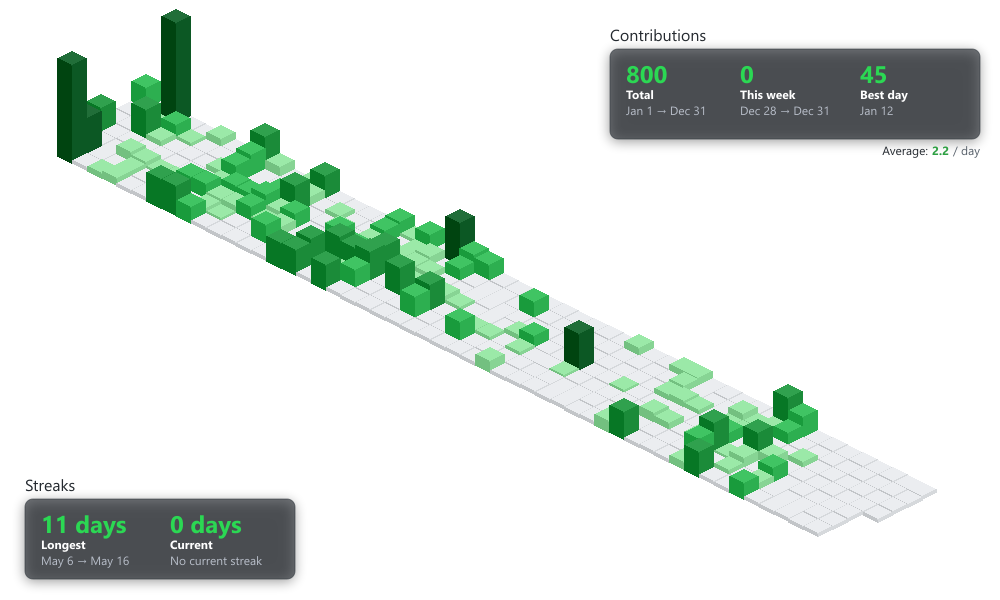
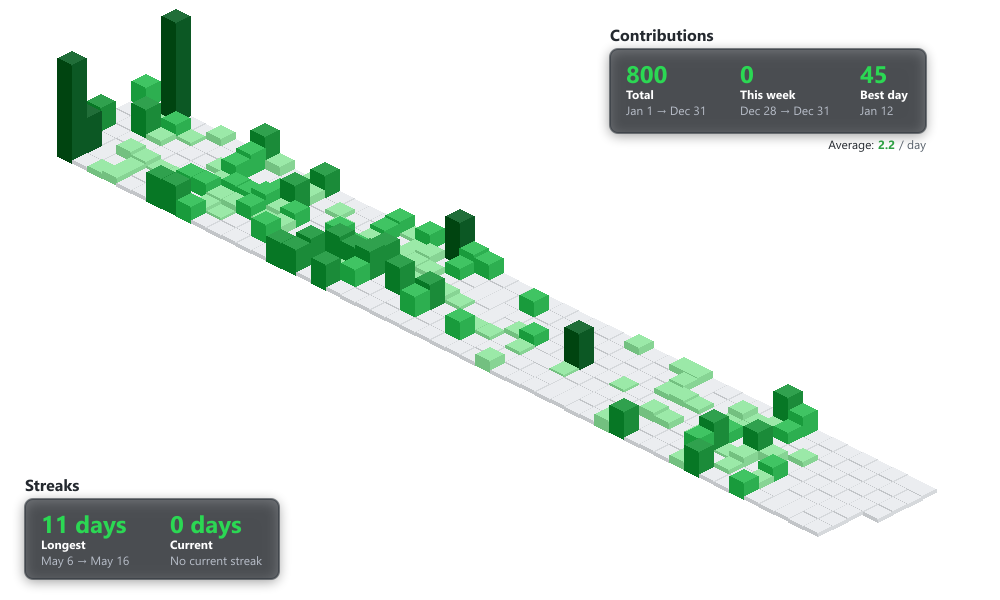
style: update font weight and box dimensions in styling configuration

diff --git a/src/renderer.js b/src/renderer.js
@@ -25,7 +25,7 @@ const STYLE_CONFIG = {
     color: "#24292f",
     fontFamily: "Segoe UI",
     fontSize: 16,
-    fontWeight: "400",
+    fontWeight: "600",
     lineHeight: 24,
   },
 
@@ -84,7 +84,7 @@ const STYLE_CONFIG = {
   box: {
     backgroundColor: "rgba(22, 27, 34, 0.6)",
     borderColor: "rgba(48, 54, 61, 0.6)",
-    borderWidth: 1,
+    borderWidth: 2,
     borderRadius: 8,
     shadowColor: "rgba(0, 0, 0, 0.4)",
     shadowBlur: 10,
@@ -94,9 +94,9 @@ const STYLE_CONFIG = {
 
   // Dimensions
   dimensions: {
-    contributionsBoxWidth: 370,
-    contributionsBoxHeight: 90,
-    streaksBoxWidth: 270,
+    contributionsBoxWidth: 316,
+    contributionsBoxHeight: 84,
+    streaksBoxWidth: 254,
     streaksBoxHeight: 80,
     titleHeight: 24,
     averageBottomMargin: 16,
